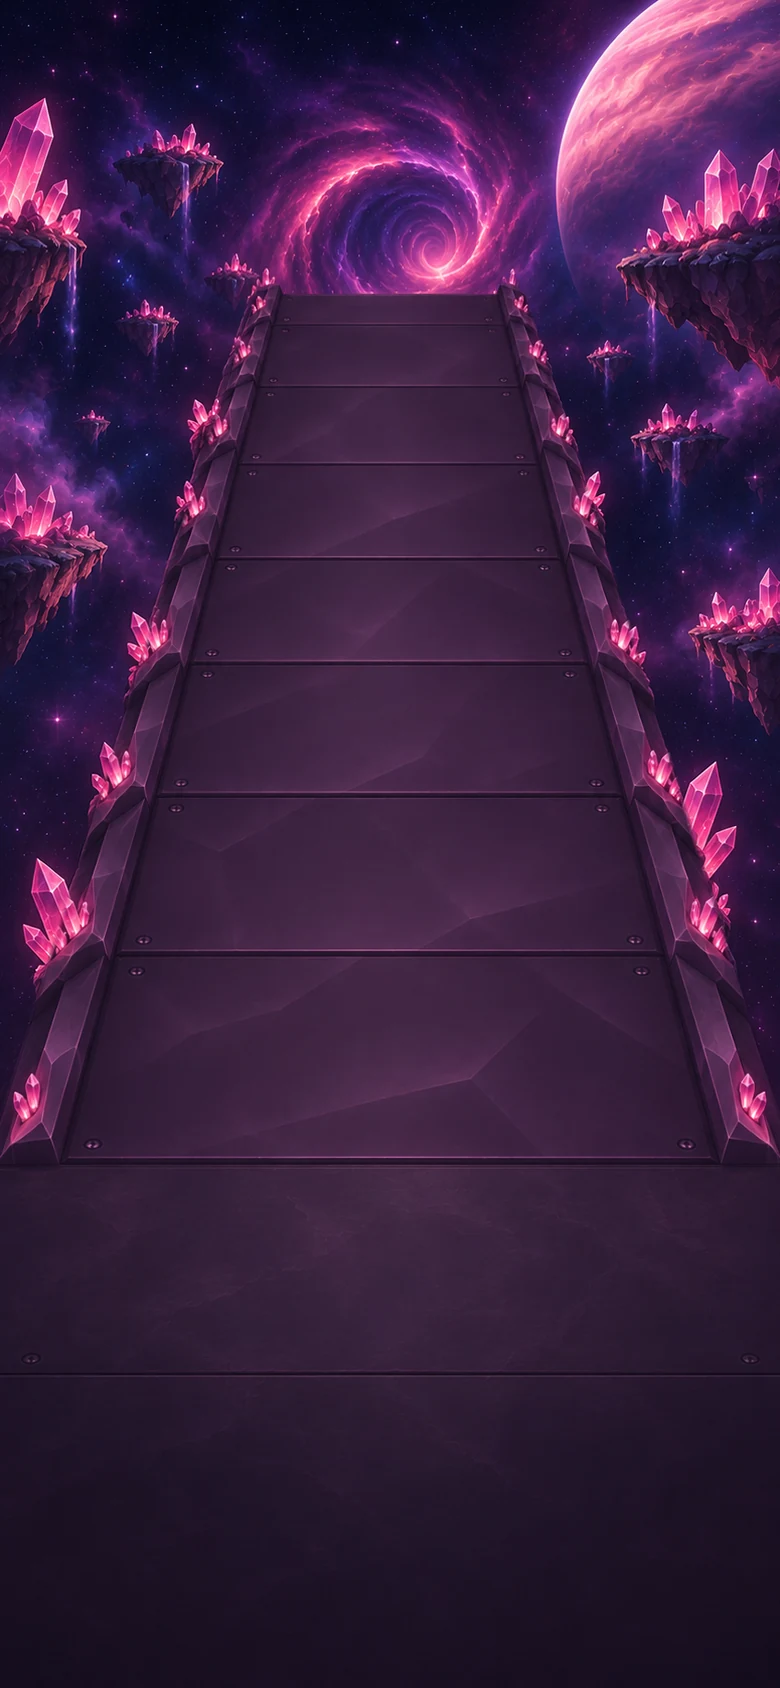
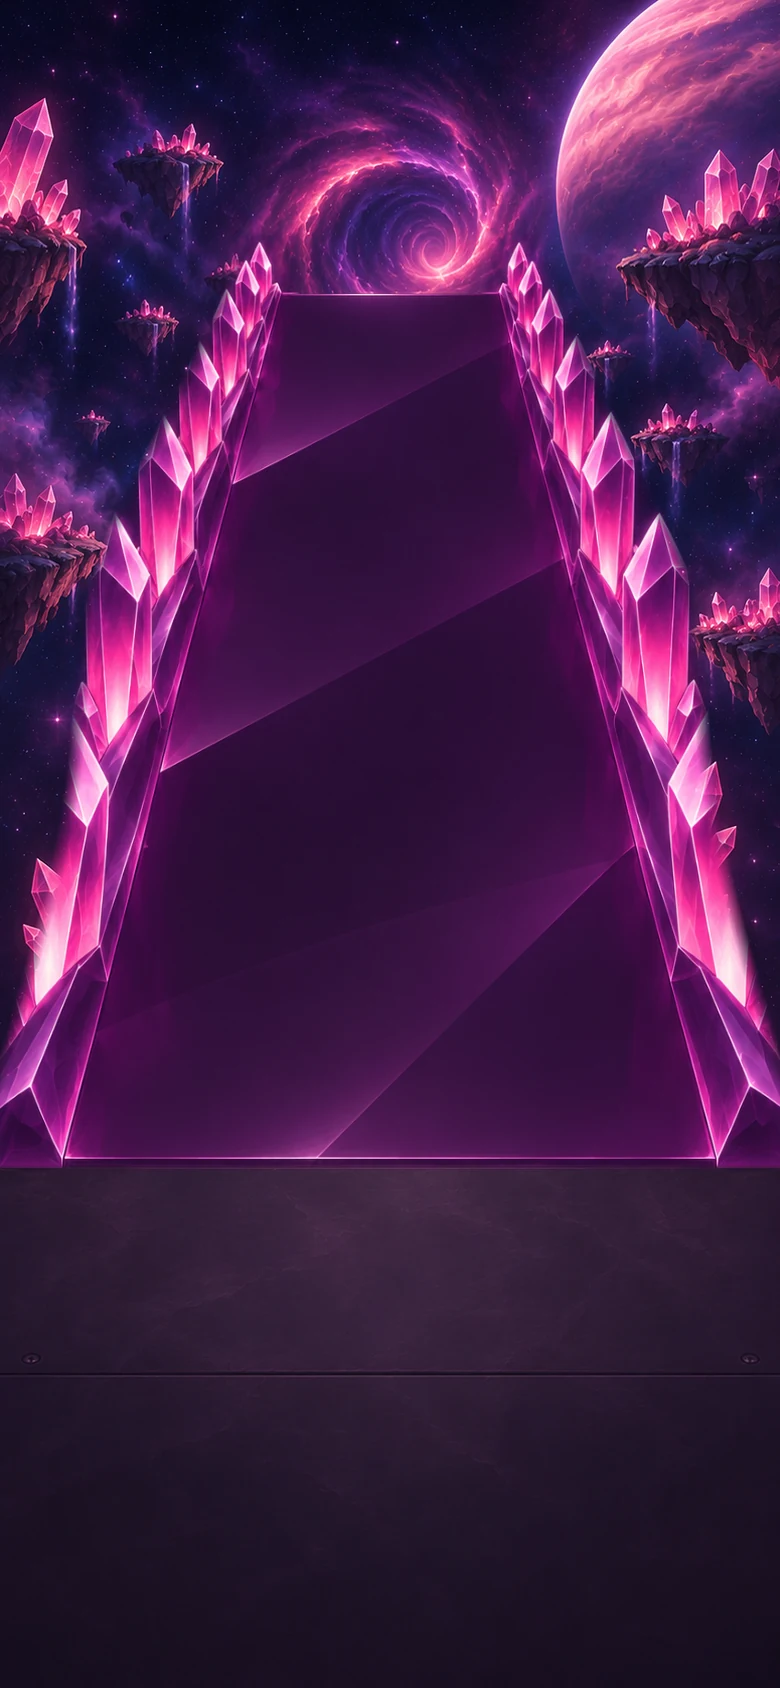
Version 0.10.12
Brücken Dschungelmond, Ozeanwelt, Kristallplanet (Bruecken_06_15_v2) übernommen.

Claude-Session: https://claude.ai/code/session_01NwX5XbY2Qvumx1eymUyNiA

diff --git a/Vorlage_Raw/AUFTRAEGE_REIHENFOLGE.md b/Vorlage_Raw/AUFTRAEGE_REIHENFOLGE.md
@@ -6,7 +6,7 @@ Bitte nacheinander abschicken, jeweils erst den nächsten, wenn der vorige gelie
 |---|---|---|---|---|
 | 1 | Ranglisten, Ligen, Spielerrahmen, Überleben, Gegnersuche (31 Bilder) | `RANGLISTEN_FUER_CHATGPT.md` | keine | **geliefert und geprüft 16.11.2026** (`Ranglisten_v1`), in den Wettbewerb-Mockups eingesetzt |
 | 1c | Arenen neu: Bahn flach auf dem Arenaboden, Tribünen ringsum, Tunnel für die Gegner | `ARENEN_V2_FUER_CHATGPT.md` | keine | **geliefert (Arena_Karten_v2), im Spiel seit 0.10.7** |
-| 2 | Brücken der Planeten 06–15 neu gestalten (bisher überall dieselbe schlichte Brücke) | `BRUECKEN_06_15_FUER_CHATGPT.md` | keine | **geliefert 17.11.2026, im Spiel seit 0.10.11** (Dschungelmond, Kristallplanet, Ozeanwelt kaum verändert) |
+| 2 | Brücken der Planeten 06–15 neu gestalten (bisher überall dieselbe schlichte Brücke) | `BRUECKEN_06_15_FUER_CHATGPT.md` | keine | **geliefert 17.11.2026, im Spiel seit 0.10.11** (Dschungelmond, Kristallplanet, Ozeanwelt nachgebessert in v2, im Spiel seit 0.10.12) |
 | 3 | Quallenflieger: fehlerhaftes Modell mit acht Armen nachreichen | `Monster_Roh/QUALLE_FEHLMODELL_FUER_CHATGPT.md` | keine | – (vom Nutzer am 11.11.2026 freigegeben) |
 | 4 | Kartenmotive für sieben Symbiosen und das Meister-Abzeichen | `SYMBIOSE_MEISTER_MOTIVE_FUER_CHATGPT.md` | keine | Nutzer gibt Mockups „Karten-Meister“ und „Karten-Symbiose“ frei |
 | 4b | Fähigkeiten der Champions (19) und fehlende Kartenlogos (4) im neuen Stil | `TALENTE_LOGOS_FUER_CHATGPT.md` | keine | bestätigt am 16.11.2026, kann raus |
@@ -16,7 +16,7 @@ Bitte nacheinander abschicken, jeweils erst den nächsten, wenn der vorige gelie
 | H2 | Meshy-Modelle Fünkchen, Pip, Rollo, Nova | dieselbe Datei, Teil B | etwa 120 Credits, **freigegeben 16.11.2026** | **geliefert und geprüft 16.11.2026**, als 0.10.9 zur Prüfung im Spiel |
 | H3 | Meshy-Modelle Iska, Brocken, Volta, Kalle, Margot, Lynx, Fritzi | `CHATGPT_PROMPTS.md`, Prompt H3 | etwa 210 Credits, **freigegeben 16.11.2026** | **geliefert 17.11.2026**, Einbau durch Claude |
 | W1 | Vorlagen für acht Champion-Waffen (seite, oben, vorn) | `CHATGPT_PROMPTS.md`, Prompt W1 | keine | **geliefert und geprüft 17.11.2026** |
-| W2 | Meshy-Modelle der acht Waffen | `CHATGPT_PROMPTS.md`, Prompt W2 | etwa 240 Credits, **noch nicht freigegeben** | nach W1 |
+| W2 | Meshy-Modelle der acht Waffen | `CHATGPT_PROMPTS.md`, Prompt W2 | etwa 240 Credits, **freigegeben 17.11.2026** | abgeschickt 17.11.2026 |
 
 ## Gemerkt für später (noch kein Auftrag)
 
